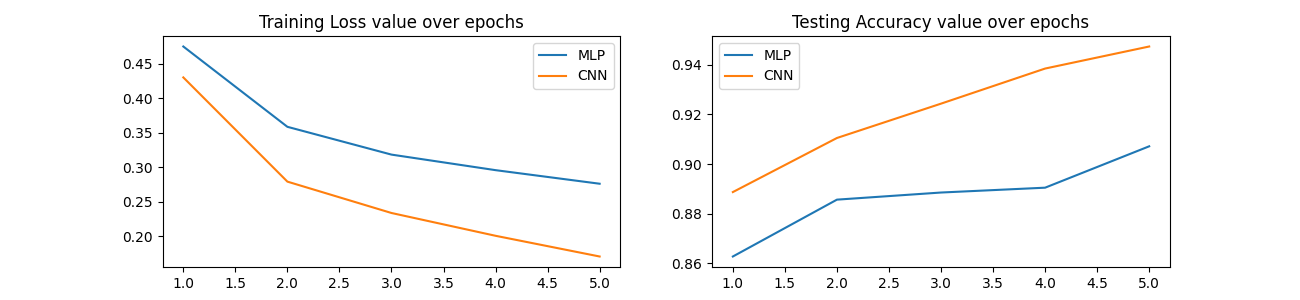
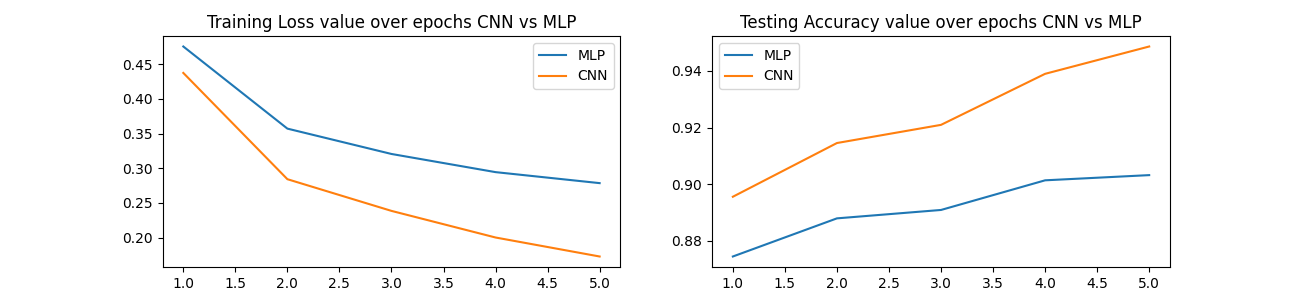
finsihed experiment 2

diff --git a/cnn.py b/cnn.py
@@ -6,15 +6,21 @@ from torch.optim import Adam
 import numpy as np
 import time
 import matplotlib.pyplot as plt
+
 device = 'cuda' if torch.cuda.is_available() else 'cpu'
+
+# Load the FashionMNIST training and testing data
 fmnist_train = datasets.FashionMNIST('~/data/FMNIST', download=True, train=True)
 fmnist_test = datasets.FashionMNIST('~/data/FMNIST', download=True, train=False)
 x_train, y_train = fmnist_train.data, fmnist_train.targets
 x_test, y_test = fmnist_test.data, fmnist_test.targets
+
 class FMNISTDataset(Dataset):
-    
+    """Dataset for MLP"""
     def __init__(self, x, y):
-        x = x.view(-1,28*28).float()/255
+        
+        # Flatten images to 784 and normalize to [0, 1]
+        x = x.view(-1, 28*28).float()/255
         self.x, self.y = x, y
     def __getitem__(self, ix):
         return self.x[ix].to(device), self.y[ix].to(device)
@@ -26,24 +32,28 @@ train_dataset = FMNISTDataset(x_train, y_train)
 train_dl = DataLoader(train_dataset, batch_size=32, shuffle=True)
 test_dataset = FMNISTDataset(x_test, y_test)
 test_dl = DataLoader(test_dataset, batch_size=32, shuffle=True)
-    
+
 class FMNISTDataset_CNN(Dataset):
+    """Dataset for CNN - keeps 2D image structure"""
     def __init__(self, x, y):
+        
+        # Reshape to (N, 1, 28, 28) to add channel dimension and normalize to [0, 1]
         x = x.view(-1, 1, 28, 28)
         x = x.float()/255
         self.x, self.y = x, y
     def __getitem__(self, ix):
-        return self.x[ix].to(device),self.y[ix].to(device)
+        return self.x[ix].to(device), self.y[ix].to(device)
     def __len__(self):
         return len(self.x)
 
-
+# CNN dataloaders
 train_dataset_cnn = FMNISTDataset_CNN(x_train, y_train)
 train_dl_cnn = DataLoader(train_dataset_cnn, batch_size=32, shuffle=True)
 test_dataset_cnn = FMNISTDataset_CNN(x_test, y_test)
 test_dl_cnn = DataLoader(test_dataset_cnn, batch_size=32, shuffle=True)
 
 def get_mlp_model(device):
+    """Returns a MLP model with one hidden layer of 1000 units"""
     model = nn.Sequential(
         nn.Linear(28 * 28, 1000),
         nn.ReLU(),
@@ -51,21 +61,47 @@ def get_mlp_model(device):
     ).to(device)
     return model
 
-def get_cnn_model(device):
-    model = nn.Sequential(nn.Conv2d( 1,64,kernel_size =3),
-        nn.ReLU(),
-        nn.MaxPool2d( 2),
-        nn.Conv2d( 64, 128, kernel_size =3),
-        nn.ReLU(),
-        nn.MaxPool2d( 2),
-        nn.Flatten() ,
-        nn.Linear( 3200, 200),
-        nn.ReLU(),
-        nn.Linear( 200, 10)
+def get_conv_output_size(kernel_size):
+    """
+    Calculates the output size of the convolutional layers after applying two 
+    convolutional layers with the changing kernel sizes.
+    The input image size is assumed to be 28x28.
+    Uses the formula: Output Size = (Input Size - Kernel Size) + 1
+    Assumes pytorch defaults for padding and stride
+    """
+    # Apply formula for first conv layer (input size of 28)
+    after_conv1 = (28 - kernel_size) + 1
+
+    # Max pool with kernel size of 2 and stride of 2
+    after_pool1 = (after_conv1 - 2) // 2 + 1
+
+    # Apply formula for second conv layer
+    after_conv2 = (after_pool1 - kernel_size) + 1
+
+    # Max pool again
+    after_pool2 = (after_conv2 - 2) // 2 + 1
+
+    # After second max pool, we have 128 channels and dimensions of after_pool2 x after_pool2
+    return 128 * after_pool2 * after_pool2
+
+def get_cnn_model(device, kernel_size=3):
+    """Returns a CNN model with two convolutional layers and two linear layers"""
+    
+    # Calculate the linear input size based on the kernel size
+    linear_input_size = get_conv_output_size(kernel_size)
+    model = nn.Sequential(
+        nn.Conv2d(1, 64, kernel_size=kernel_size), nn.ReLU(),
+        nn.MaxPool2d(2),
+        nn.Conv2d(64, 128, kernel_size=kernel_size), nn.ReLU(),
+        nn.MaxPool2d(2),
+        nn.Flatten(),
+        nn.Linear(linear_input_size, 200), nn.ReLU(),
+        nn.Linear(200, 10)
     ).to(device)
     return model
 
 def train_batch(x, y, model, opt, loss_fn):
+    """Performs a single training step on a batch of data"""
     model.train()
     opt.zero_grad()
     batch_loss = loss_fn(model(x), y)
@@ -75,6 +111,7 @@ def train_batch(x, y, model, opt, loss_fn):
 
 @torch.no_grad()
 def accuracy(x, y, model):
+    """Computes the accuracy of the model on a batch of data"""
     model.eval()
     prediction = model(x)
     argmaxes = prediction.argmax(dim=1)
@@ -82,6 +119,7 @@ def accuracy(x, y, model):
     return s.cpu().numpy()
 
 def train_model(model, train_dl, n_epochs, device):
+    """Trains the model for n_epochs and returns the losses and accuracies"""
     loss_fn = nn.CrossEntropyLoss()
     opt = Adam(model.parameters(), lr=1e-3)
     losses, accuracies = [], []
@@ -90,12 +128,14 @@ def train_model(model, train_dl, n_epochs, device):
         print(f"Running epoch {epoch + 1} of {n_epochs}")
         epoch_losses, epoch_accuracies = [], []
 
+        # Train on each batch
         for batch in train_dl:
             x, y = batch
             batch_loss = train_batch(x, y, model, opt, loss_fn)
             epoch_losses.append(batch_loss)
         epoch_loss = np.mean(epoch_losses)
 
+        # Compute accuracy on each batch
         for batch in train_dl:
             x, y = batch
             batch_acc = accuracy(x, y, model)
@@ -108,6 +148,7 @@ def train_model(model, train_dl, n_epochs, device):
     return losses, accuracies
 
 def test_model(model, test_dl):
+    """Computes the test accuracy of the model on the test set"""
     test_accs = []
     for batch in test_dl:
         x, y = batch
@@ -115,45 +156,44 @@ def test_model(model, test_dl):
         test_accs.append(batch_acc)
     return np.mean(test_accs)
 
-
 def count_parameters(model):
-        """
-        Counts the number of parameters in a PyTorch model.
-        """
-        total = 0
-
-        # Iterate over all parameters in the model and sum their sizes
-        for p in model.parameters():
-            total += p.numel()
-        return total
-
-
+    """Counts the number of trainable parameters in a PyTorch model"""
+    total = 0
+    
+    # Iterate over all parameters in the model and sum their sizes
+    for p in model.parameters():
+        total += p.numel()
+    return total
 
 def experiment_1(n_epochs=5):
+    """Study 1: Compare MLP vs CNN on FashionMNIST with fixed number of layers"""
 
-    # train MLP
+    # Train MLP
     mlp = get_mlp_model(device)
     print(f"MLP has {count_parameters(mlp)} parameters")
     start = time.time()
     mlp_losses, mlp_train_accs = train_model(mlp, train_dl, n_epochs, device)
     mlp_time = time.time() - start
-    # test accuracy on MLP
+
+    # Test accuracy on MLP
     mlp_test_acc = test_model(mlp, test_dl)
     print(f"MLP test accuracy: {mlp_test_acc:.4f}")
 
-    # train CNN
+    # Train CNN
     cnn = get_cnn_model(device)
     print(f"CNN has {count_parameters(cnn)} parameters")
     start = time.time()
     cnn_losses, cnn_train_accs = train_model(cnn, train_dl_cnn, n_epochs, device)
     cnn_time = time.time() - start
+
+    # Test accuracy on CNN
     cnn_test_acc = test_model(cnn, test_dl_cnn)
     print(f"CNN test accuracy: {cnn_test_acc:.4f}")
 
     print(f"MLP training time: {mlp_time:.2f}s")
     print(f"CNN training time: {cnn_time:.2f}s")
 
-    # plot results
+    # Plot results
     plt.figure(figsize=(13, 3))
 
     plt.subplot(121)
@@ -163,7 +203,7 @@ def experiment_1(n_epochs=5):
     plt.legend()
 
     plt.subplot(122)
-    plt.title('Testing Accuracy value over epochs CNN vs MLP')
+    plt.title('Training Accuracy value over epochs CNN vs MLP')
     plt.plot(np.arange(n_epochs) + 1, mlp_train_accs, label='MLP')
     plt.plot(np.arange(n_epochs) + 1, cnn_train_accs, label='CNN')
     plt.legend()
@@ -171,8 +211,52 @@ def experiment_1(n_epochs=5):
     plt.savefig('study1_results.png')
     plt.show()
 
+def experiment_2(n_epochs=5):
+    """Study 2: Vary kernel size from 2, 3, 5, 7, 9 with fixed layers and filters"""
+    kernel_sizes = [2, 3, 5, 7, 9]
+    results = {}
 
+    for ks in kernel_sizes:
+        print(f"\nTraining CNN with kernel_size={ks}")
+        cnn = get_cnn_model(device, kernel_size=ks)
+        print(f"Parameters: {count_parameters(cnn):,}")
+
+        # Train and time the model
+        start = time.time()
+        losses, train_accs = train_model(cnn, train_dl_cnn, n_epochs, device)
+        training_time = time.time() - start
+
+        # Test accuracy
+        test_acc = test_model(cnn, test_dl_cnn)
+        print(f"Test accuracy: {test_acc:.4f}")
+        print(f"Training time: {training_time:.2f}s")
+
+        # Store results for plotting
+        results[ks] = {
+            'losses': losses,
+            'train_accs': train_accs,
+            'test_acc': test_acc,
+            'time': training_time
+        }
+
+    # Plot results
+    plt.figure(figsize=(13, 3))
+
+    plt.subplot(121)
+    plt.title('Training Loss value over epochs')
+    for ks in kernel_sizes:
+        plt.plot(np.arange(n_epochs) + 1, results[ks]['losses'], label=f'kernel={ks}')
+    plt.legend()
+
+    plt.subplot(122)
+    plt.title('Training Accuracy value over epochs')
+    for ks in kernel_sizes:
+        plt.plot(np.arange(n_epochs) + 1, results[ks]['train_accs'], label=f'kernel={ks}')
+    plt.legend()
+
+    plt.savefig('study2_results.png')
+    plt.show()
 
 if __name__ == "__main__":
-    
-    experiment_1()
+    #experiment_1()
+    experiment_2()
